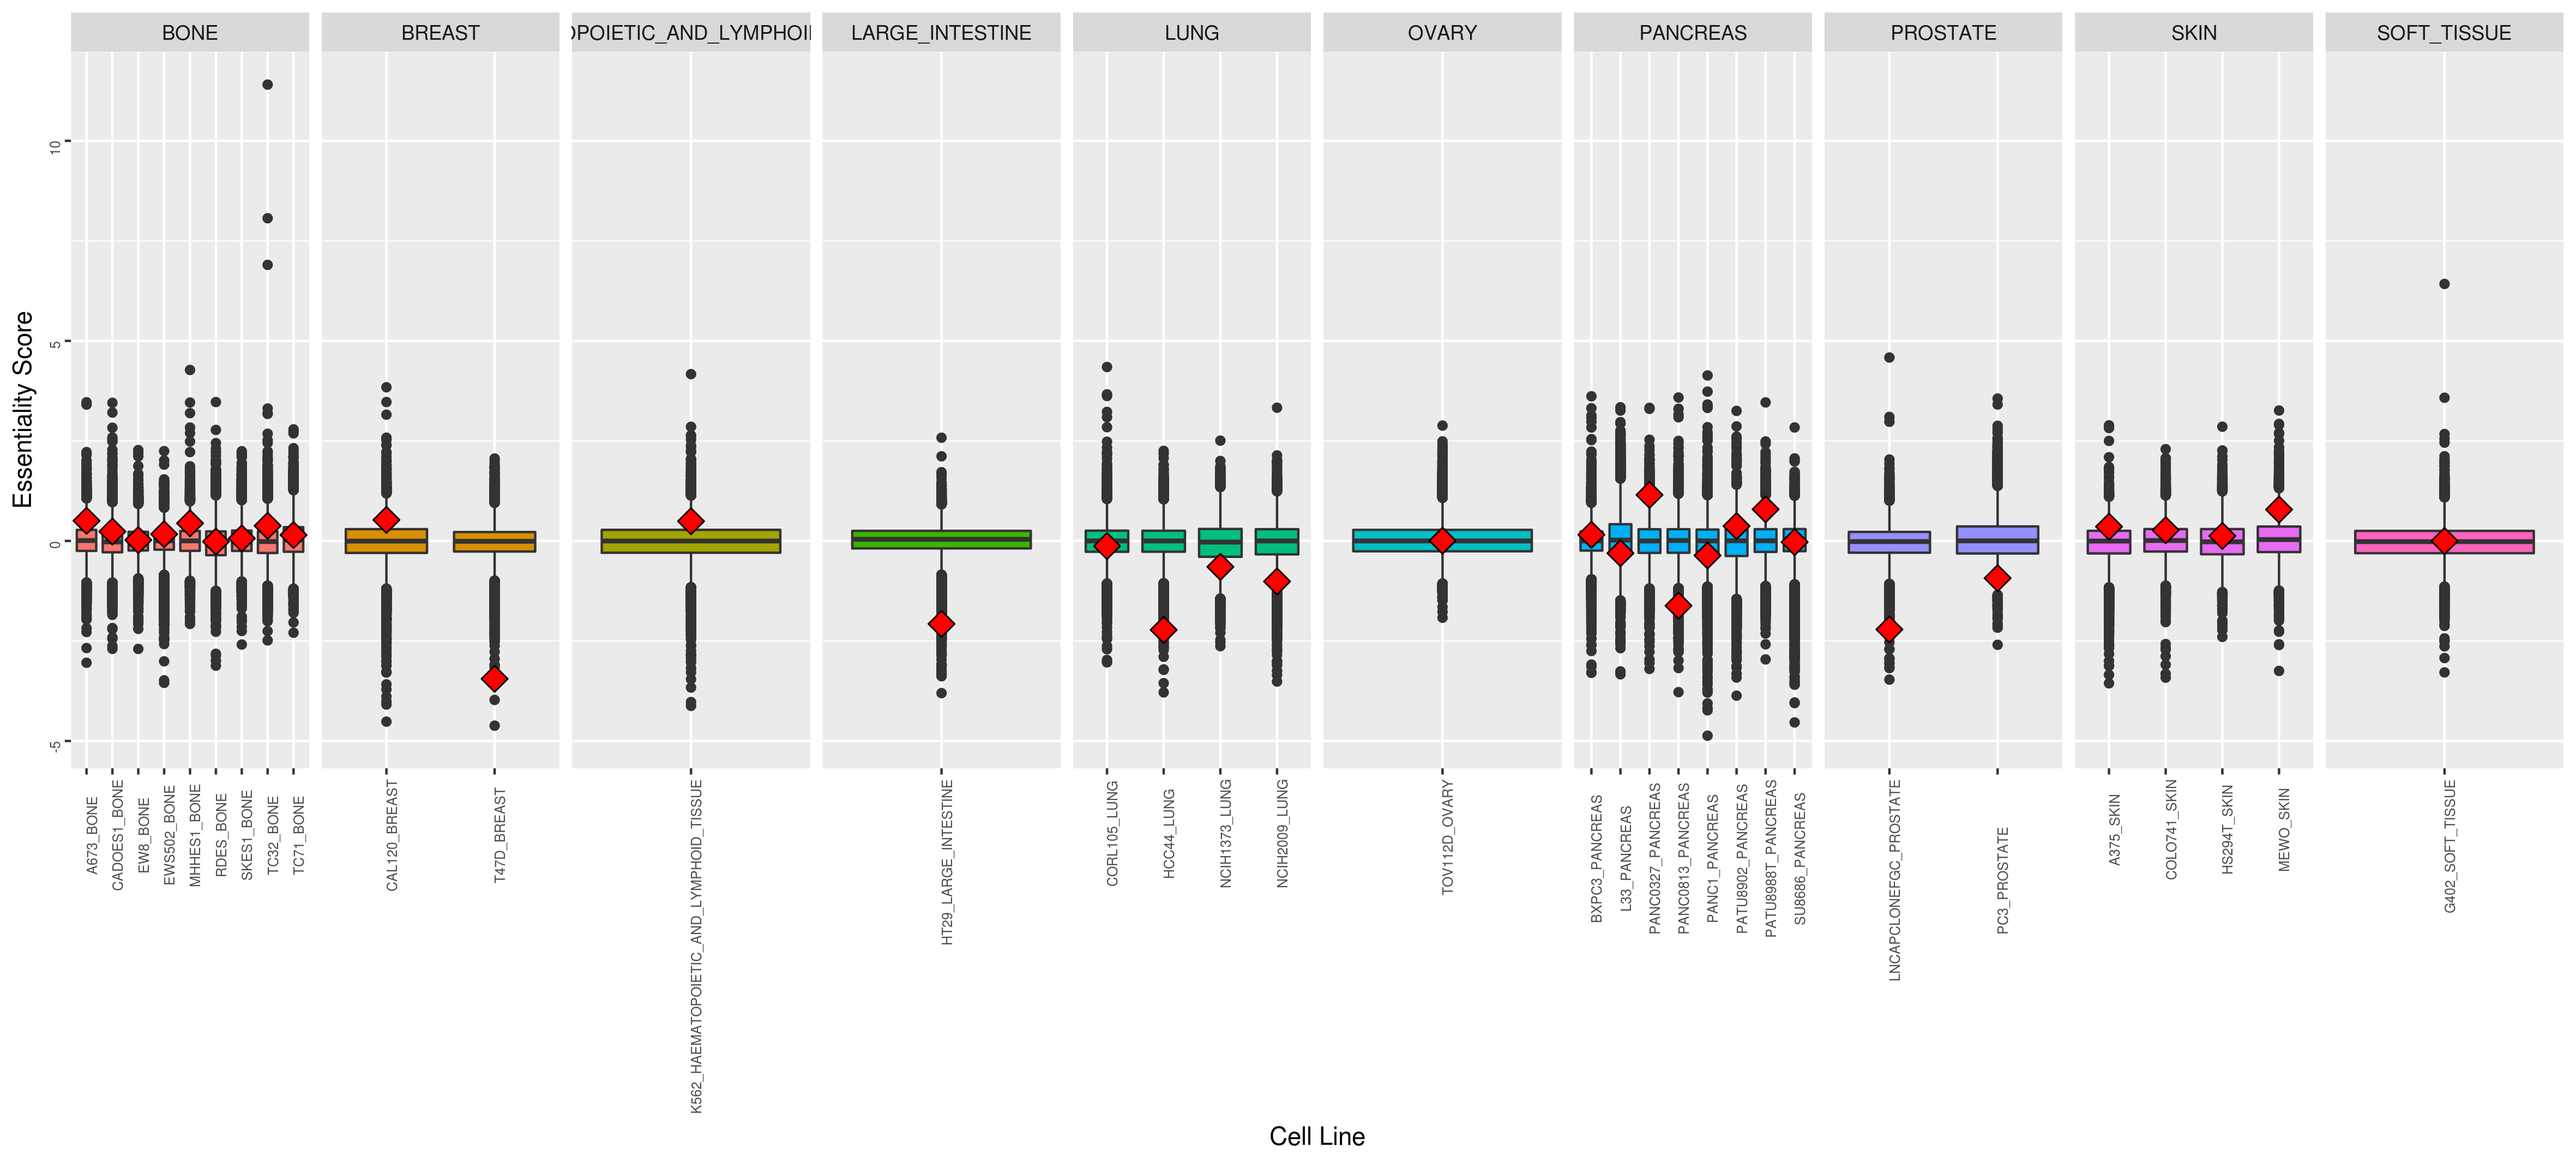
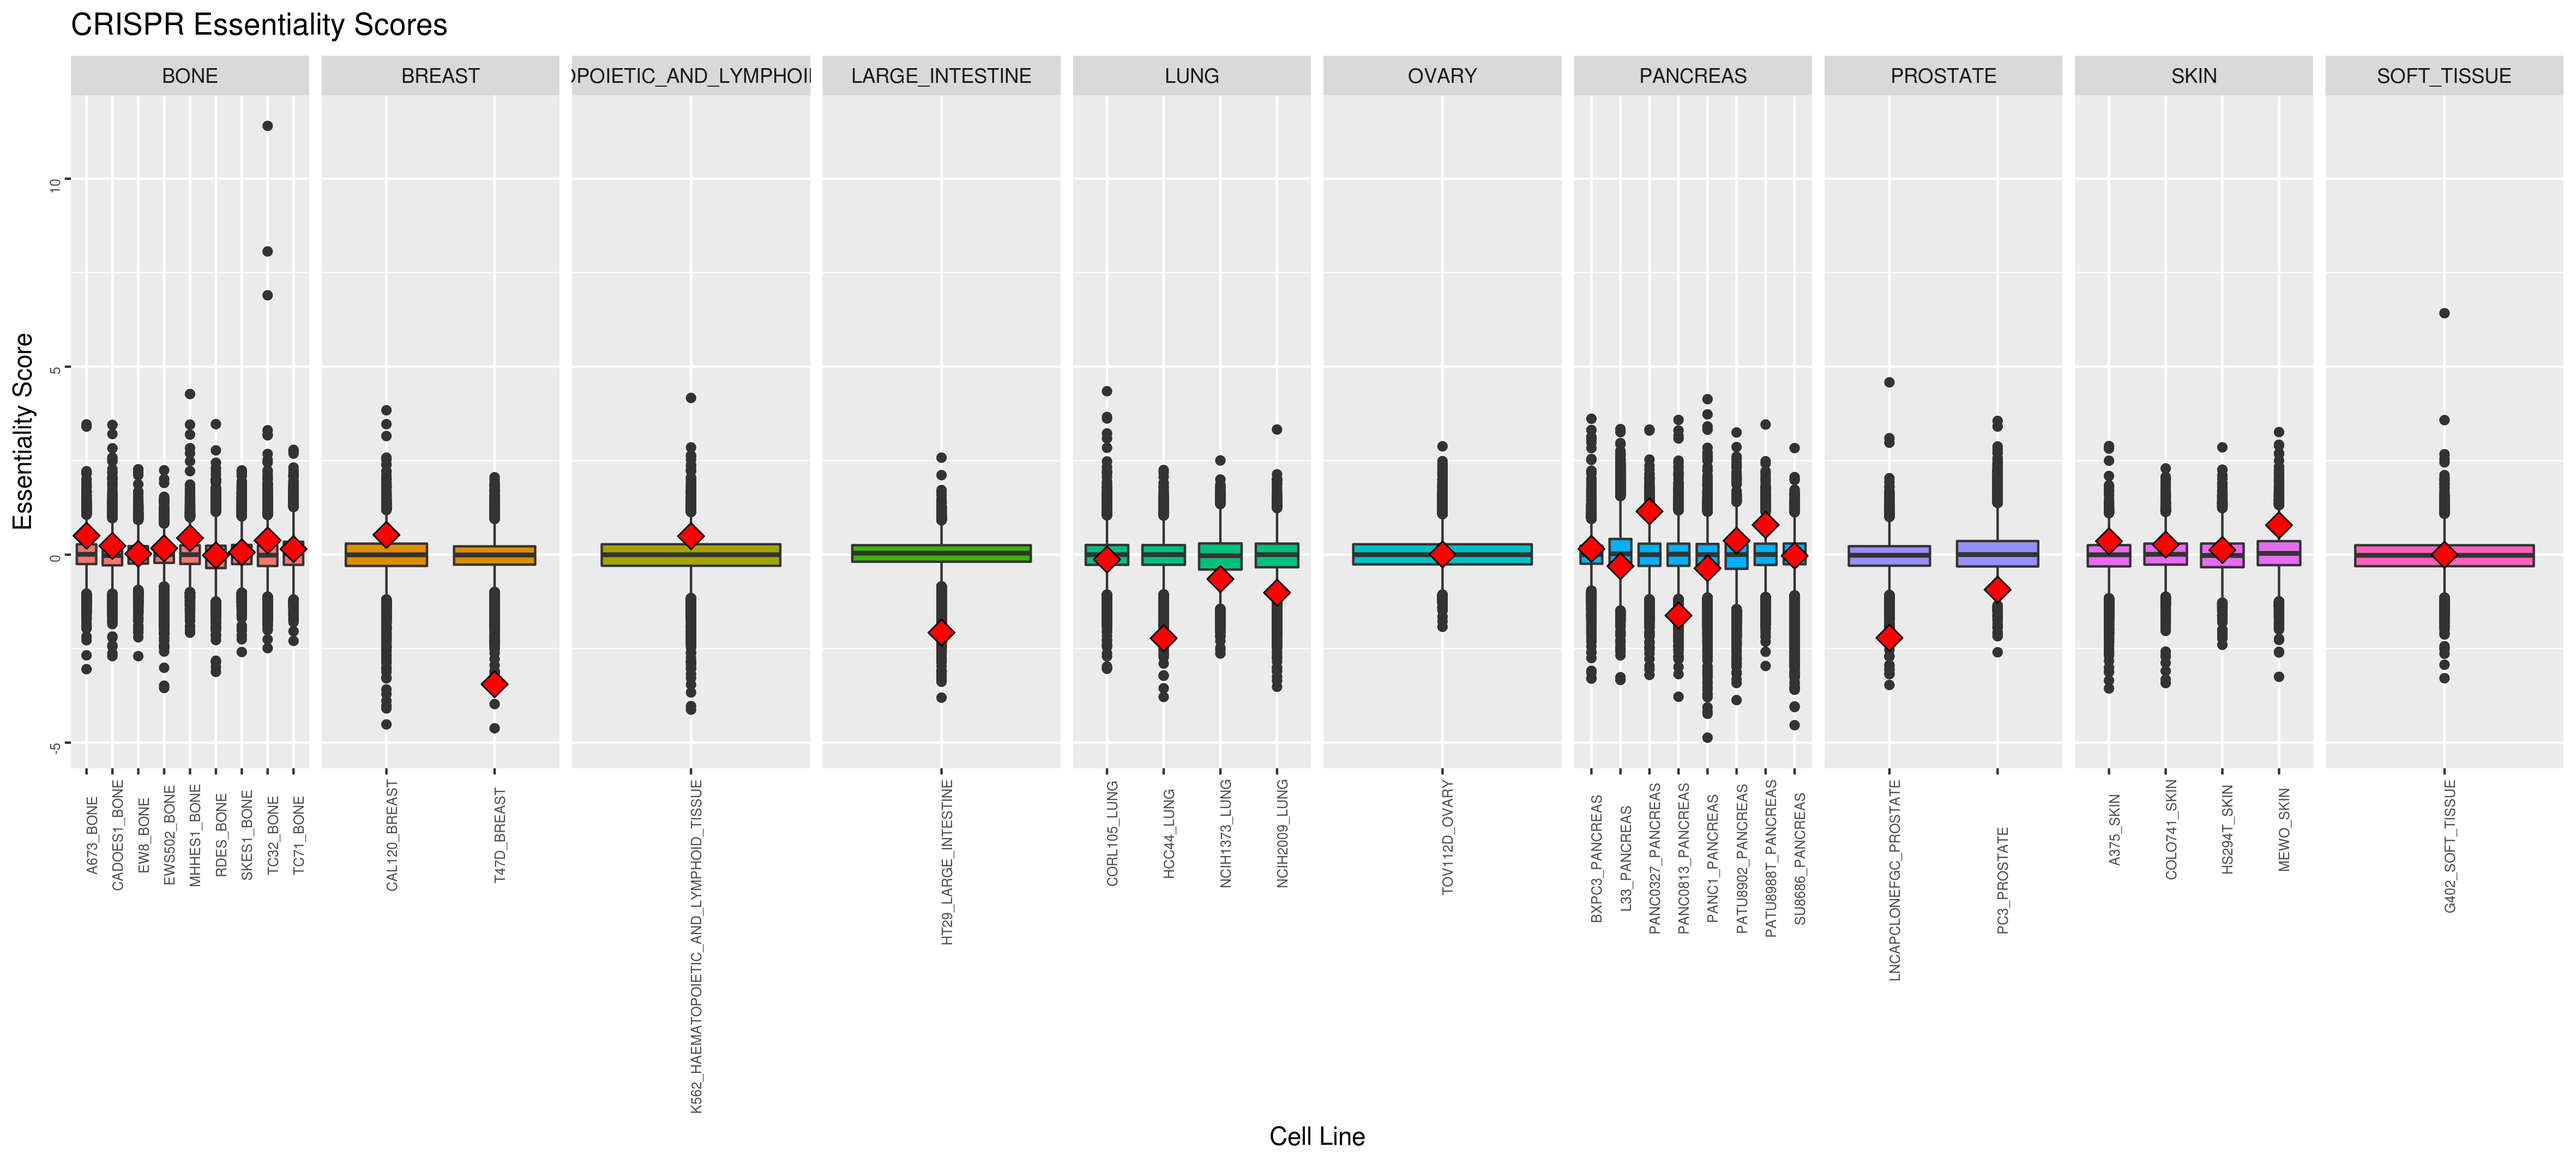
Updated README, figure titles
Adding a todo in the README for a permutation test for explicit demonstration of FOXA1 essentiality in prostate cancer cells

diff --git a/results/1C_gene-essentiality/README.md b/results/1C_gene-essentiality/README.md
@@ -42,6 +42,19 @@ It's possible they modelled each set as _N_(0, σ^2), instead of _N_(0, 1).
 But even so, the NCI-H660 and VCaP distributions don't appear to be centred on 0.
 However, I'm not sure how meaningful a question this is, and whether it's worth pursuing.
 
+### Permutation Test
+
+FOXA1 is present in all cell lines, and its essentiality varies depending on the
+line and the tissue.
+
+![CRISPR essentiality scores](crispr-essentiality-all.png)
+![RNAi essentiality scores](rnai-essentiality-all.png)
+
+To explicitly show that FOXA1 is particularly important in prostate cancer cells
+over other cell lines, we perform a permutation test.
+
+> INSERT DETAILS HERE
+
 ## Conclusions
 
 FOXA1 is observable as an essential gene in a variety of prostate cancer cell lines.
